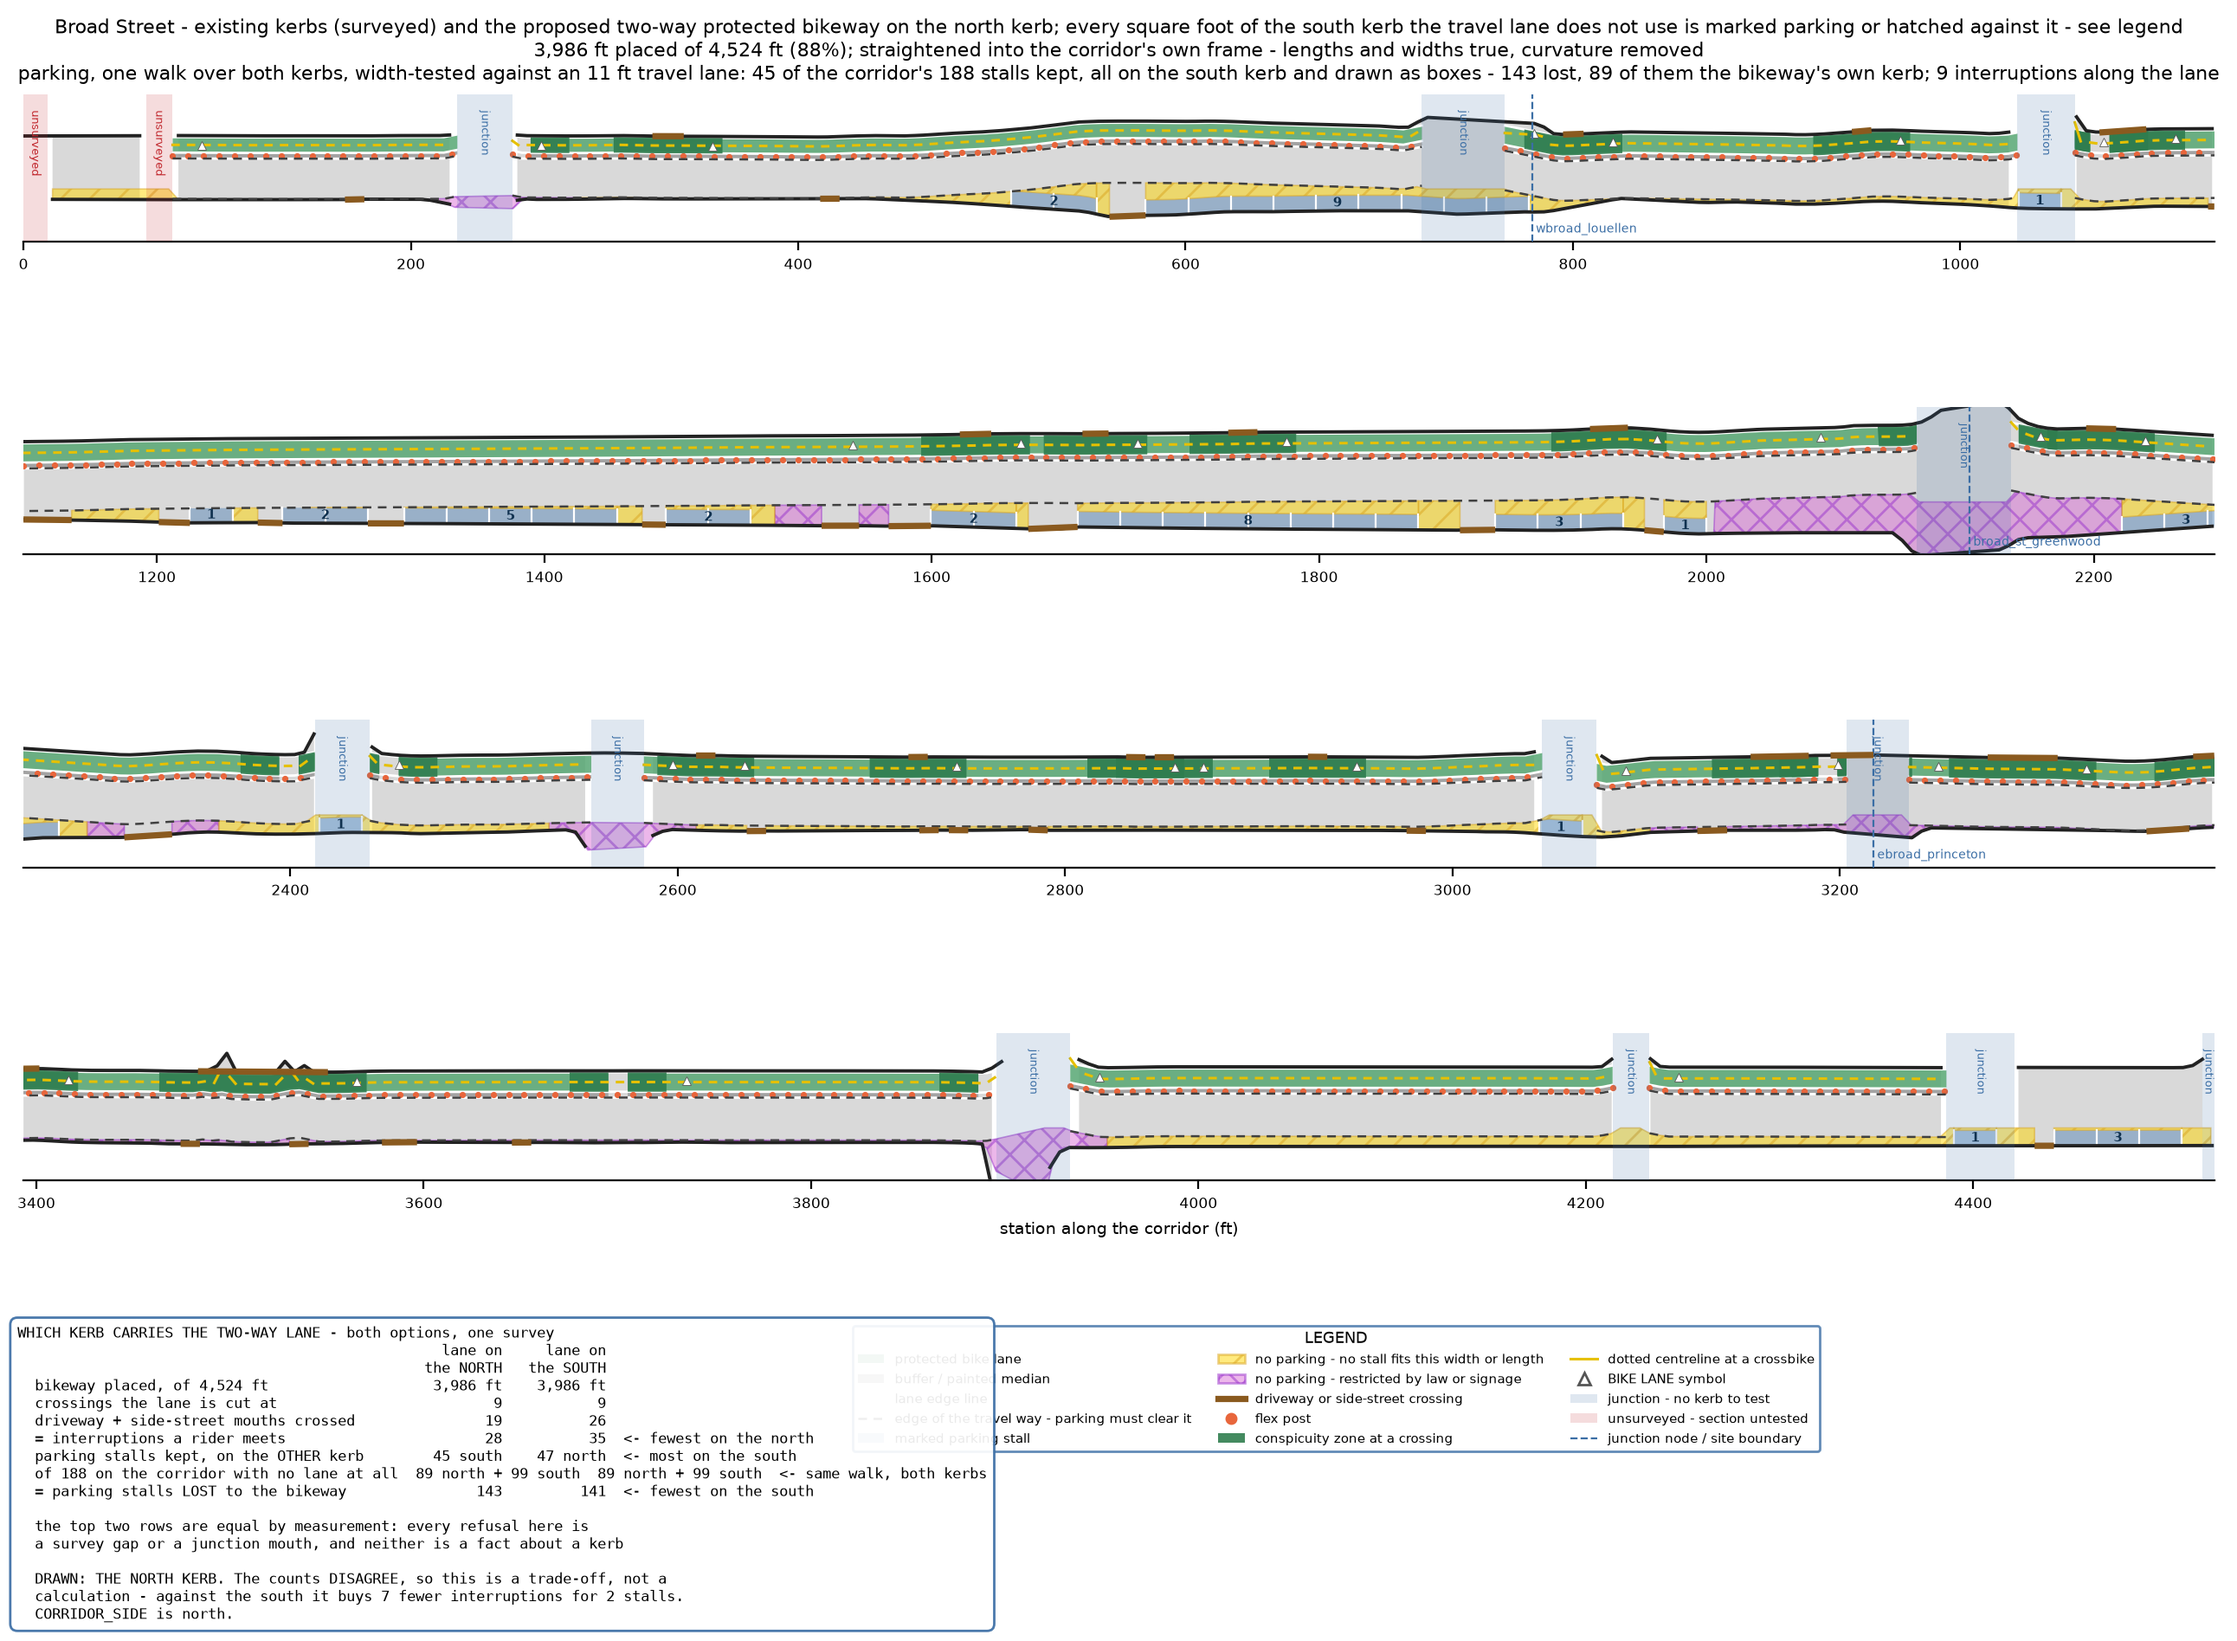
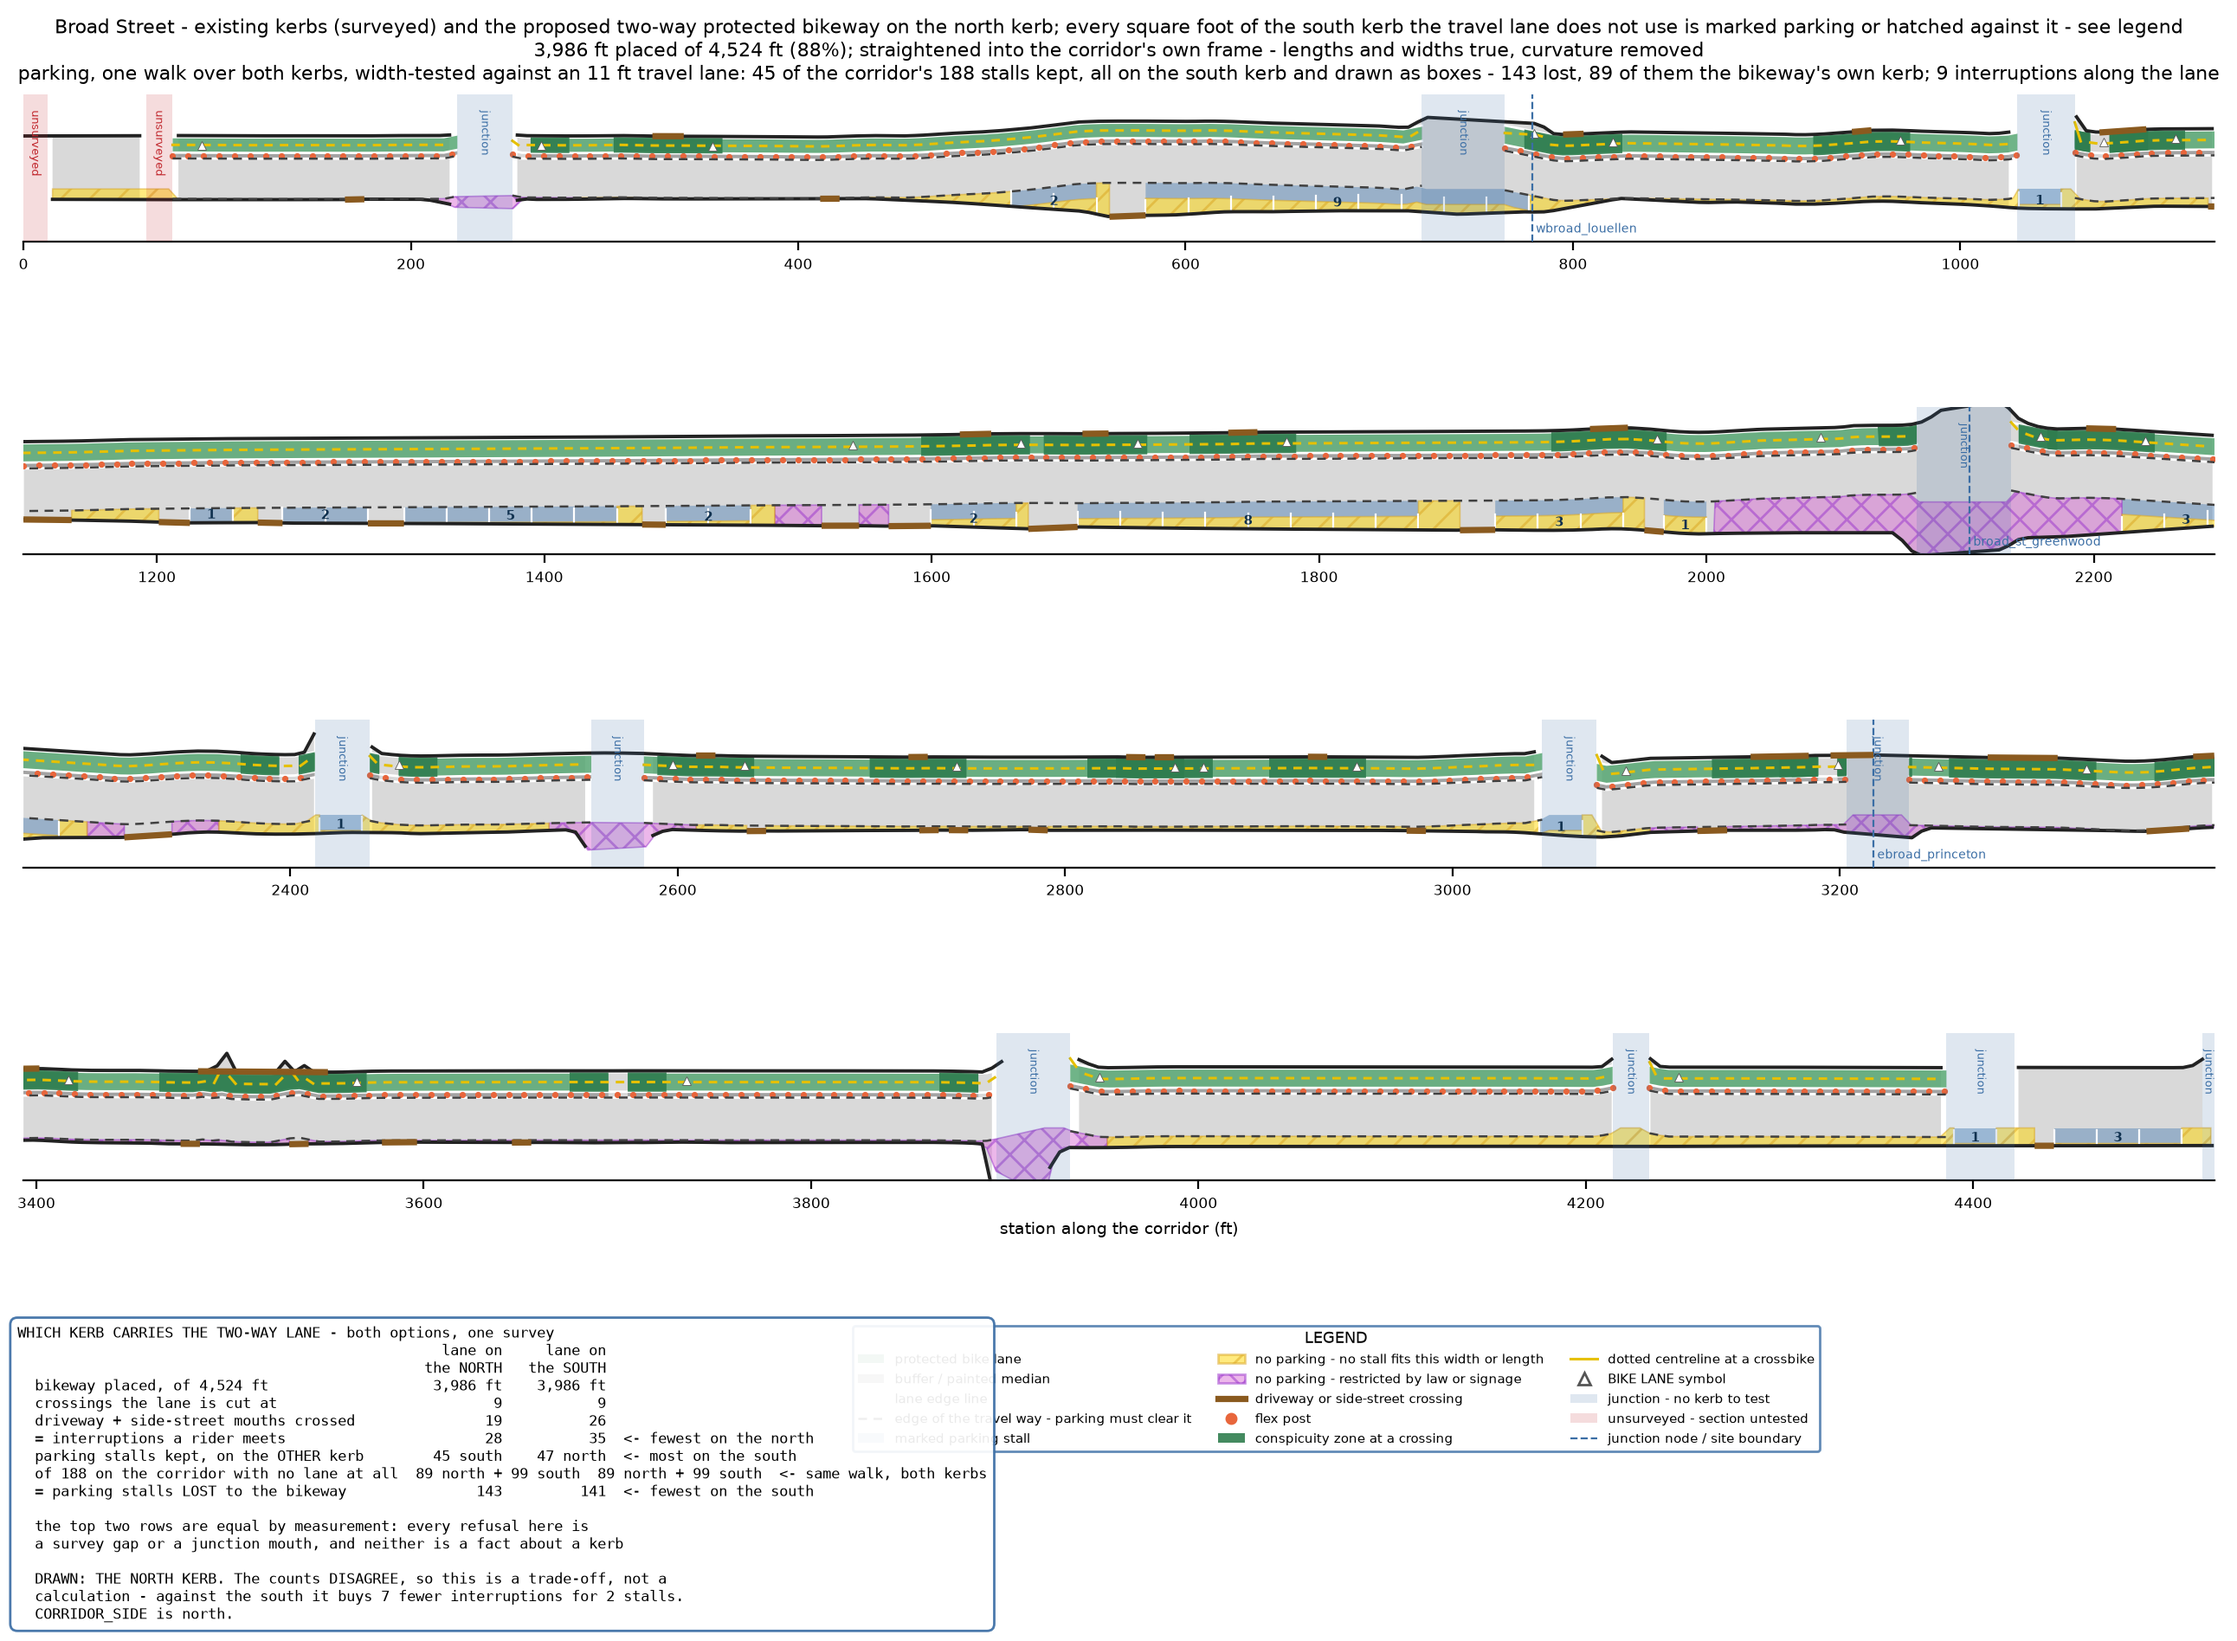
Put the corridor's hatch against the kerb, where the junction puts it
The stall and its remainder were in the wrong order. MarkedParking.curb_offset_ft
says the buffer goes "between the curb and the parking lane itself (so parking
sits directly against the active travel lane instead of against the curb)", and
broad_st_east's right kerb draws exactly that - stall over 14.64-22.49 ft off the
centreline, buffer_fill over 22.49-26.54. stall_bands had it the other way round
and said so in its own docstring.

Nothing could see it and no test pinned it, for the same reason no reader could:
until the previous commit there was no hatch beside a box at all, so there was no
order for the two views to disagree about. This is the tail of the same defect -
one decision, two drawings - and it survived the fix to the decision itself.

Measured on a perpendicular cut, station 1900 now reads travel-lane edge 10.24 ->
stall 10.24-18.24 -> hatch 18.24-25.44 -> kerb 25.50.

test_the_stall_sits_against_the_travel_lane_and_the_hatch_against_the_kerb fails
at 8.75 ft against the old order. It measures the box's INNER edge, not the two
outer edges: the pieces abut, so where the remainder is thinner than the probe's
step both land in one cell and the outer-edge comparison reads a real 0.00 tie.
It also cuts on the band's own vertices - a band carries one every
CORRIDOR_SAMPLE_FT with a chord between, and where the lane edge steps (3045 to
3047 is 13.70 ft to 11.00, a facility restarting at a junction) that chord is 1.5
[…]

diff --git a/tests/test_corridor.py b/tests/test_corridor.py
@@ -476,6 +476,84 @@ def test_the_parking_a_bikeway_costs_is_measured_against_the_same_walk(broad_st_
 
 
 @needs_source_data
+def test_the_stall_sits_against_the_travel_lane_and_the_hatch_against_the_kerb(broad_st_paint,
+                                                                               site_models):
+    """The kerbside zone's two pieces, in the order the junction draws them.
+
+    THE TWO VIEWS DISAGREED ABOUT THIS AND NOTHING COULD SEE IT. MarkedParking.curb_offset_ft
+    puts the buffer "between the curb and the parking lane itself (so parking sits directly
+    against the active travel lane instead of against the curb)", and broad_st_east's right kerb
+    draws exactly that - stall over 14.64-22.49 ft off the centreline, buffer_fill over
+    22.49-26.54. `stall_bands` had it the other way round, and no test noticed for the same
+    reason no reader could: until the surplus beside a box was drawn at all there was no second
+    piece for the order to be wrong about. Pinned here so a corridor and a junction cannot
+    quietly draw one decision two ways again.
+
+    Cut perpendicular to the alignment rather than compared by polygon bounds. A band spans
+    stations and the kerb wanders across them, so a whole-polygon offset range mixes the widest
+    cross-section with the narrowest and reports the two pieces overlapping when they abut.
+    """
+    from shapely.geometry import LineString
+    from shapely.ops import unary_union
+
+    from scripts.corridor_render import kerbside_parking
+    from src.geometry.corridor_paint import CORRIDOR_SAMPLE_FT
+
+    corridor, paint = broad_st_paint
+    far = "left" if paint.side == "right" else "right"
+    with contextlib.redirect_stdout(io.StringIO()):
+        facts = corridor_facts(corridor, site_models)
+    edge_at = far_kerb_lane_edge(paint)
+    bands, _marks, _labels, hatch = kerbside_parking(corridor, facts, far, edge_at)
+    stalls = unary_union([b for _lo, _hi, b in bands])
+    hatches = unary_union([h for _lo, _hi, h, _why in hatch])
+    sign = 1.0 if far == "left" else -1.0
+
+    def reach(geom, station, edge, kerb):
+        """(innermost, outermost) offset this geometry covers on a cut at one station."""
+        hit = [off for off in np.arange(edge, kerb, 0.25)
+               if LineString([point_at(corridor.centerline, station, sign * off),
+                              point_at(corridor.centerline, station, sign * (off + 0.02))]
+                             ).intersects(geom)]
+        return (min(hit), max(hit)) if hit else None
+
+    checked, worst_ft, worst_at = 0, -np.inf, None
+    for lo, hi, _band in bands:
+        # ON THE BAND'S OWN VERTICES. A band carries a vertex every CORRIDOR_SAMPLE_FT and a
+        # straight chord between them, so a cut taken anywhere else reads the chord and not the
+        # design. Where the lane edge steps - station 3045 to 3047 is 13.70 ft to 11.00, a
+        # facility restarting at a junction - that chord is 1.5 ft out, which is enough to fail a
+        # threshold this test has no business failing on.
+        for station in np.arange(lo + CORRIDOR_SAMPLE_FT, hi, CORRIDOR_SAMPLE_FT):
+            kerb = kerb_offset_ft(corridor, far, float(station))
+            edge = edge_at(float(station))
+            if kerb is None or not np.isfinite(kerb) or kerb - edge < MIN_HATCHED_ZONE_FT:
+                continue
+            box = reach(stalls, float(station), edge, kerb)
+            hat = reach(hatches, float(station), edge, kerb)
+            if box is None or hat is None:
+                continue
+            checked += 1
+            # MEASURED ON THE BOX'S INNER EDGE, not by comparing the two outer edges. The pieces
+            # abut, so where the remainder is thinner than the probe's own step both land in one
+            # cell and the outer-edge comparison reads 0.00 - a real tie, and a threshold it
+            # cannot be held to. The inner edge has no such degeneracy: against the travel lane
+            # it reads the lane edge, and against the kerb it reads a stall's depth short of the
+            # kerb, which on this street is up to 19 ft away.
+            if box[0] - edge > worst_ft:
+                worst_ft, worst_at = box[0] - edge, float(station)
+
+    assert checked > 50, (
+        f"only {checked} station(s) carry both a stall and a hatch - this test measured almost "
+        f"nothing, which is how a wrong order would pass it")
+    assert worst_ft < MIN_HATCHED_ZONE_FT, (
+        f"the stall starts {worst_ft:.2f} ft outboard of the travel lane's edge at station "
+        f"{worst_at:.0f}, so the hatch is the INBOARD piece there - it is the box that sits "
+        f"against the travel lane and the hatch that runs out to the kerb "
+        f"(MarkedParking.curb_offset_ft)")
+
+
+@needs_source_data
 def test_every_spare_foot_of_kerb_is_allocated(broad_st_paint, site_models):
     """"Parking or hatching, never neither" holds by AREA, not only by length.
 

diff --git a/src/geometry/corridor_paint.py b/src/geometry/corridor_paint.py
@@ -476,8 +476,16 @@ def _kerb_band_over(corridor: "Corridor", on: "Alignment", side: str, spans, dep
                  else None for z in zone]
         stall = np.array([0.0 if a is None else a.stall_depth_ft for a in alloc])
         total = np.array([0.0 if a is None else a.total_ft for a in alloc])
-        outer = offs - (0.0 if piece == "stall" else stall)
-        inner = offs - (stall if piece == "stall" else total)
+        # THE BOX SITS AGAINST THE TRAVEL LANE AND THE HATCH AGAINST THE KERB, which is the
+        # junction's order (MarkedParking.curb_offset_ft: "parking sits directly against the
+        # active travel lane instead of against the curb") and was this view's the other way
+        # round. Nothing showed it until the remainder started being drawn at all - with no hatch
+        # beside a box there was no order for the two views to disagree about. Measured on
+        # broad_st_east's right kerb the junction draws the stall over 14.64-22.49 ft and its
+        # buffer over 22.49-26.54, so the hatch is the outboard piece.
+        base = offs - total
+        outer = base + (stall if piece == "stall" else total)
+        inner = base + (0.0 if piece == "stall" else stall)
         band = band_from_offsets(on, side, stations[finite], inner[finite], outer[finite])
         if band is not None and not band.is_empty:
             out.append((float(lo), float(hi), band))
@@ -495,8 +503,11 @@ def stall_bands(corridor: "Corridor", side: str, spans, depth_ft: float | None =
     room, clear) and then a whole-car walk, and a band builder is not the place any of that gets
     decided. Pass `stall_footprints`, so what is shaded is what was counted.
 
-    Drawn against the KERB and not the alignment - a parked car sits against the kerb wherever
-    the kerb happens to be.
+    Stationed against the KERB and not the alignment - the kerb wanders, and a kerbside zone that
+    ignored it would drift off the street. WHERE IN THAT ZONE the box sits is a separate question
+    and the answer is NOT "against the kerb": it sits against the travel lane, with the surplus
+    hatched outboard of it. See _kerb_band_over, and MarkedParking.curb_offset_ft for the junction
+    saying the same thing first.
     """
     from src.geometry.treatments.parking import PARKING_STALL_DEPTH_DEFAULT_FT
 
